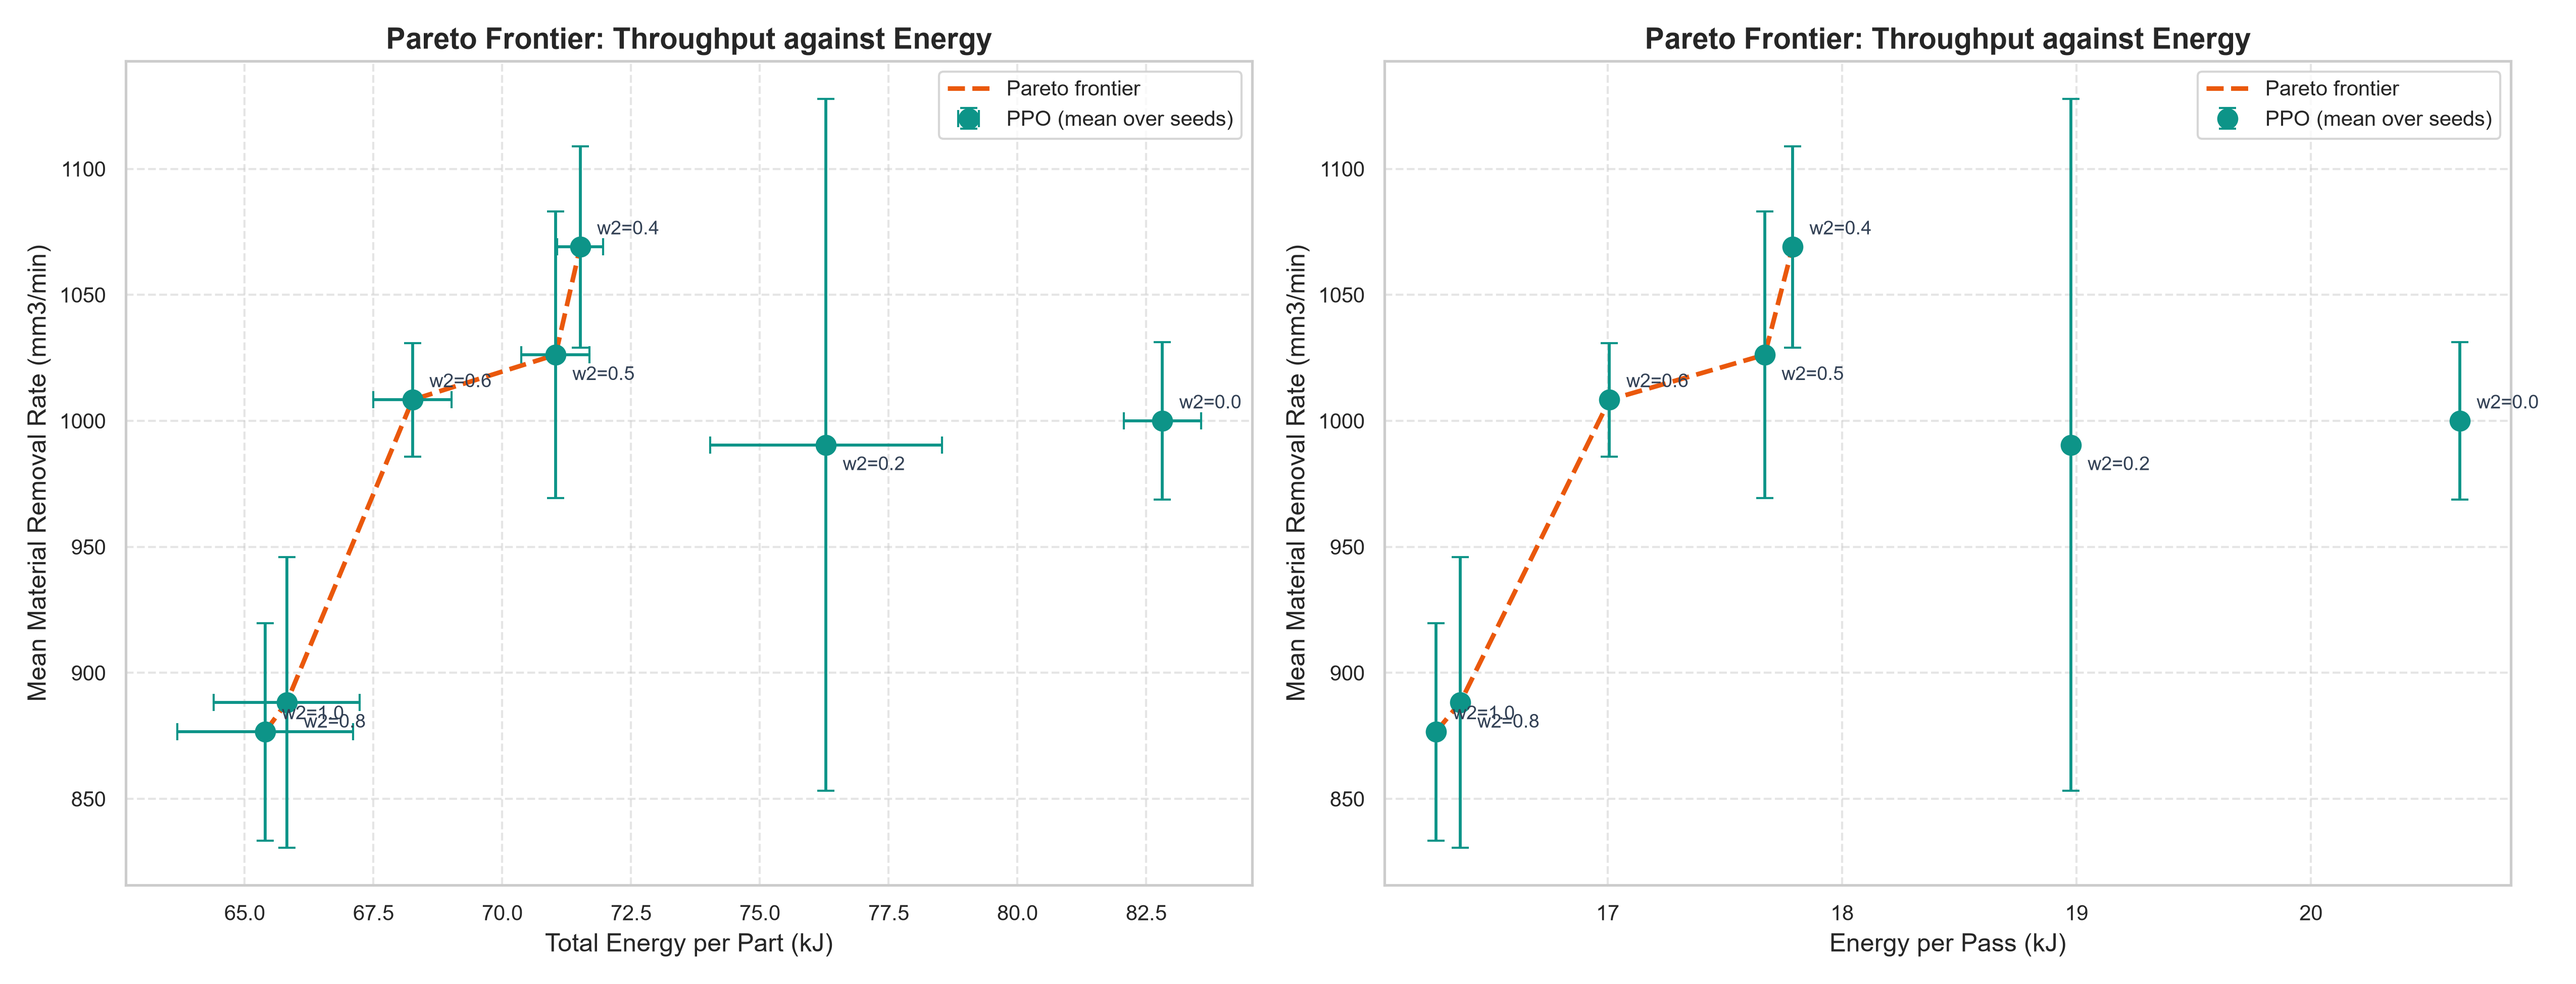
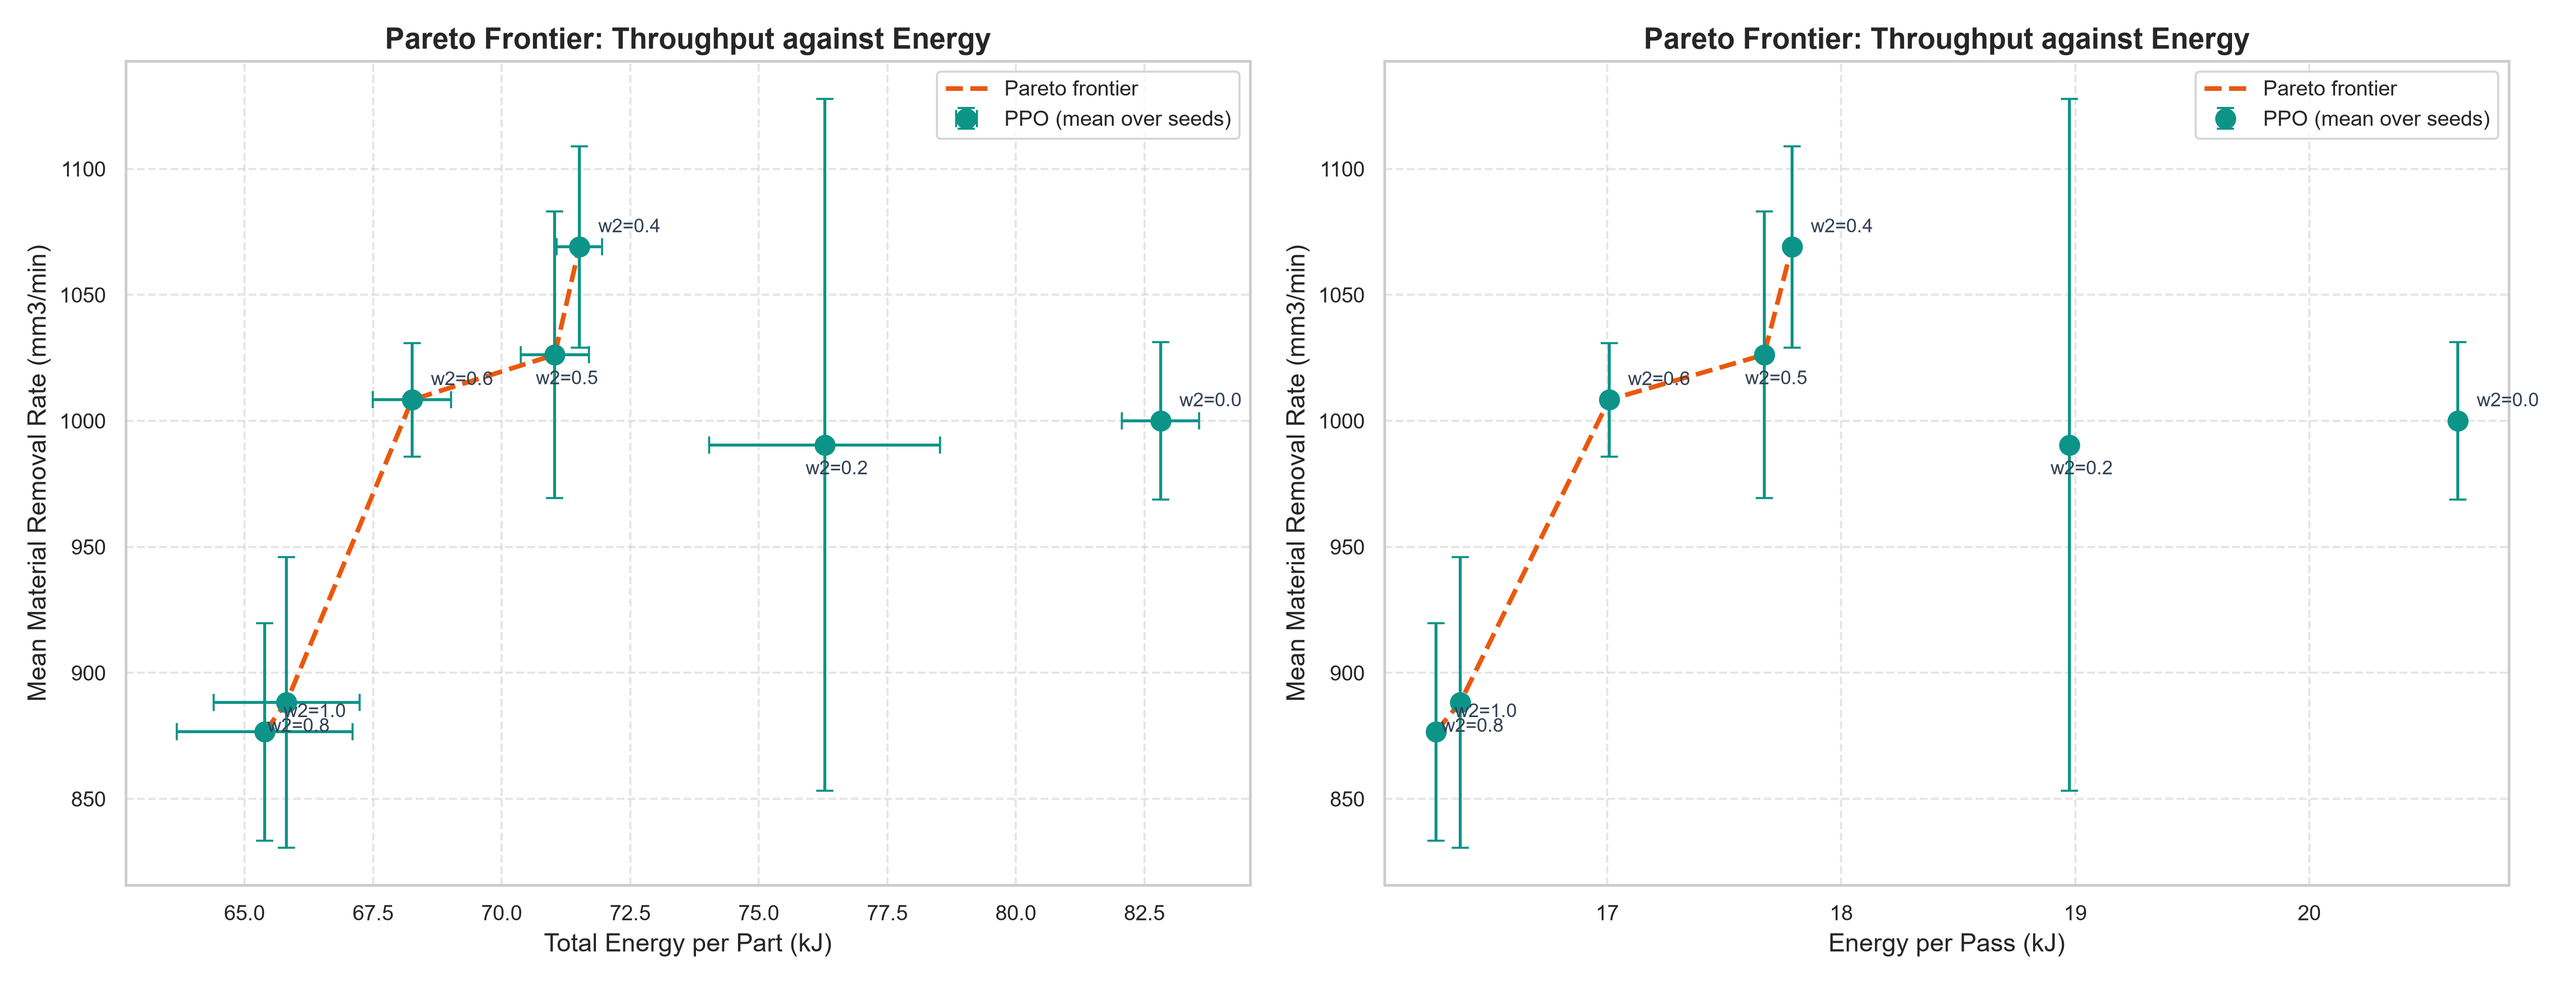
chore(plots): place the frontier labels around the points
The two lowest energy weights sit almost on top of each other, so the
labels overprinted.

diff --git a/agent/train_rl_ablation.py b/agent/train_rl_ablation.py
@@ -207,9 +207,14 @@ def plot_ablation(agg, weights, plots_dir):
         if len(front) > 1:
             ax.plot(front[energy_col], front['MRR_mean'], '--', color='#ea580c',
                     linewidth=2.2, zorder=1, label='Pareto frontier')
-        for index, (_, row) in enumerate(agg.iterrows()):
-            # Stagger the labels so the close points do not overprint.
-            offset = (8, 6 if index % 2 == 0 else -12)
+        # Place the labels around the points, in energy order, so the close
+        # points on the frontier do not overprint each other.
+        ordered = agg.sort_values(energy_col).reset_index()
+        for position, (_, row) in enumerate(ordered.iterrows()):
+            if position % 2 == 0:
+                offset = (9, 7)
+            else:
+                offset = (-9, -14)
             ax.annotate(f"w2={row['w2']:.1f}", (row[energy_col], row['MRR_mean']),
                         textcoords="offset points", xytext=offset, fontsize=9,
                         color='#334155')
